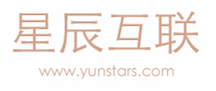
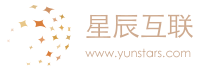
修改项目背景颜色和图片

diff --git a/index.html b/index.html
@@ -1,6 +1,7 @@
 <!DOCTYPE html>
 <html lang="zh-cn">
 <head>
+	<meta name="viewport" content="width=device-width, initial-scale=1" />
 	<meta charset="UTF-8">
 	<title>北京星辰互联信息科技有限公司</title>
 	<meta name="keyword" content="">
@@ -34,10 +35,10 @@
 			<li>强服务</li>
 		</ul>
 		<dl class="index_header_r">
-			<dt><img src="images/index_05.png" alt=""><span>010-85578196</span>
+			<dt><img src="images/index_05.png" alt=""><!--<span>010-85578196</span> -->
 			<div class="clear"></div>
 			</dt>
-			<dd>7X24小时全国服务热线，欢迎来电咨询！</dd>
+			<!--<dd>7X24小时全国服务热线，欢迎来电咨询！</dd> -->
 		</dl>
 		<div class="clear"></div>
 	</header>
@@ -58,9 +59,10 @@
 			
 			<div class="bd">
 				<ul>
-					<li><a href="" target="_blank"><img src="images/index_09.png" /></a></li>
-					<li><a href="" target="_blank"><img src="images/index_09.png" /></a></li>
-					<li><a href="" target="_blank"><img src="images/index_09.png" /></a></li>
+					<li><a href="" target="_blank"><img src="images/banner1.png" /></a></li>
+					<li><a href="" target="_blank"><img src="images/banner2.png" /></a></li>
+					<li><a href="" target="_blank"><img src="images/banner3.png" /></a></li>
+					<li><a href="" target="_blank"><img src="images/banner4.png" /></a></li>
 				</ul>
 			</div>
 

diff --git a/css/style.css b/css/style.css
@@ -46,7 +46,7 @@
 .index_nav{
     height: 60px;
     width: 100%;
-    background: #189AE2;
+    background: #c8aa94;
 }
 .index_nav_ul li{
     float: left;
@@ -62,7 +62,7 @@
 }
 
 .index_nav_ul_on{
-    background: #1C65B1;
+    background: #a28b79;
 }
 /*banner*/
 /* 本例子css */
@@ -84,7 +84,7 @@
         .slideBox .prevStop{ display:none;  }
         .slideBox .nextStop{ display:none;  }*/
 .index_styll1{
-    background: #DBEEF8;
+    background: #FFFFFF;
     -webkit-box-sizing:border-box;
     -moz-box-sizing:border-box;
     -ms-box-sizing:border-box;
@@ -359,7 +359,7 @@ a.index_style3_l_r{
 
 /*footer*/
 .index_footer{
-    background: #1C65B1;
+    background: #a28b79;
     width: 100%;
     height: 100px;
     padding-top: 20px;
@@ -421,7 +421,7 @@ a.index_style3_l_r{
 .case_left_t{
     height: 45px;
     line-height: 45px;
-    background: #1C65B1;
+    background: #a28b79;
 }
 .case_left_t1{
     font-size: 18px;
@@ -447,7 +447,7 @@ a.index_style3_l_r{
     margin-right: 25px;
 }
 a.case_left_li_on{
-    color:#1C65B1;
+    color:#a28b79;
 }
 .case_left_b{
     height: 40px;
